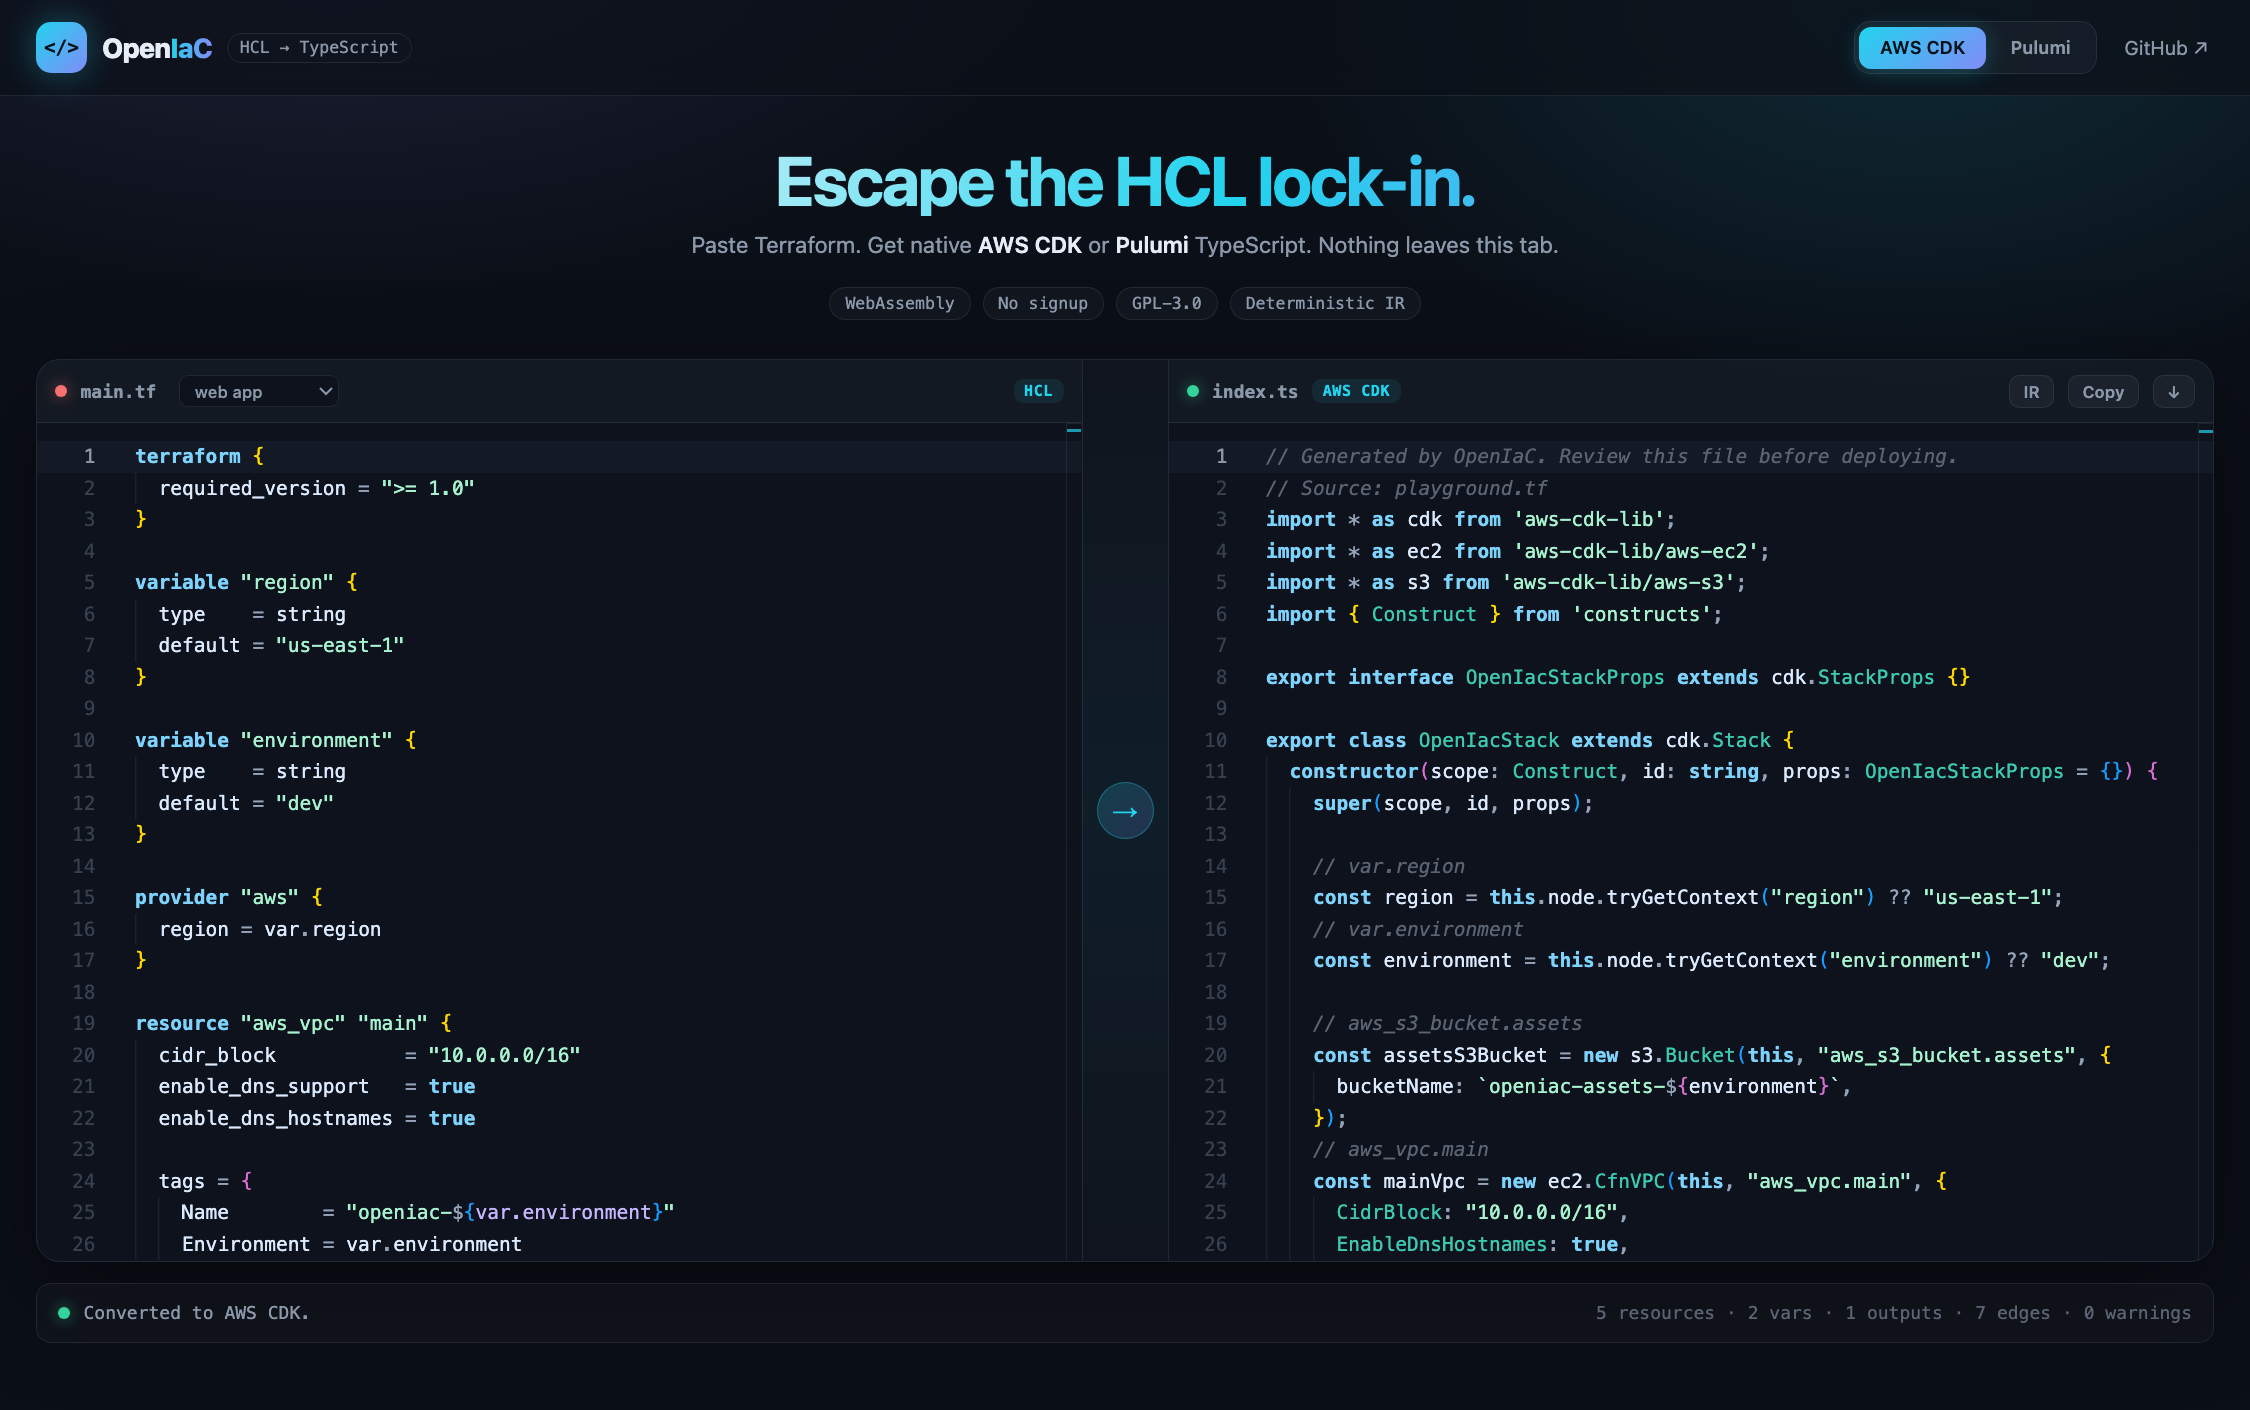
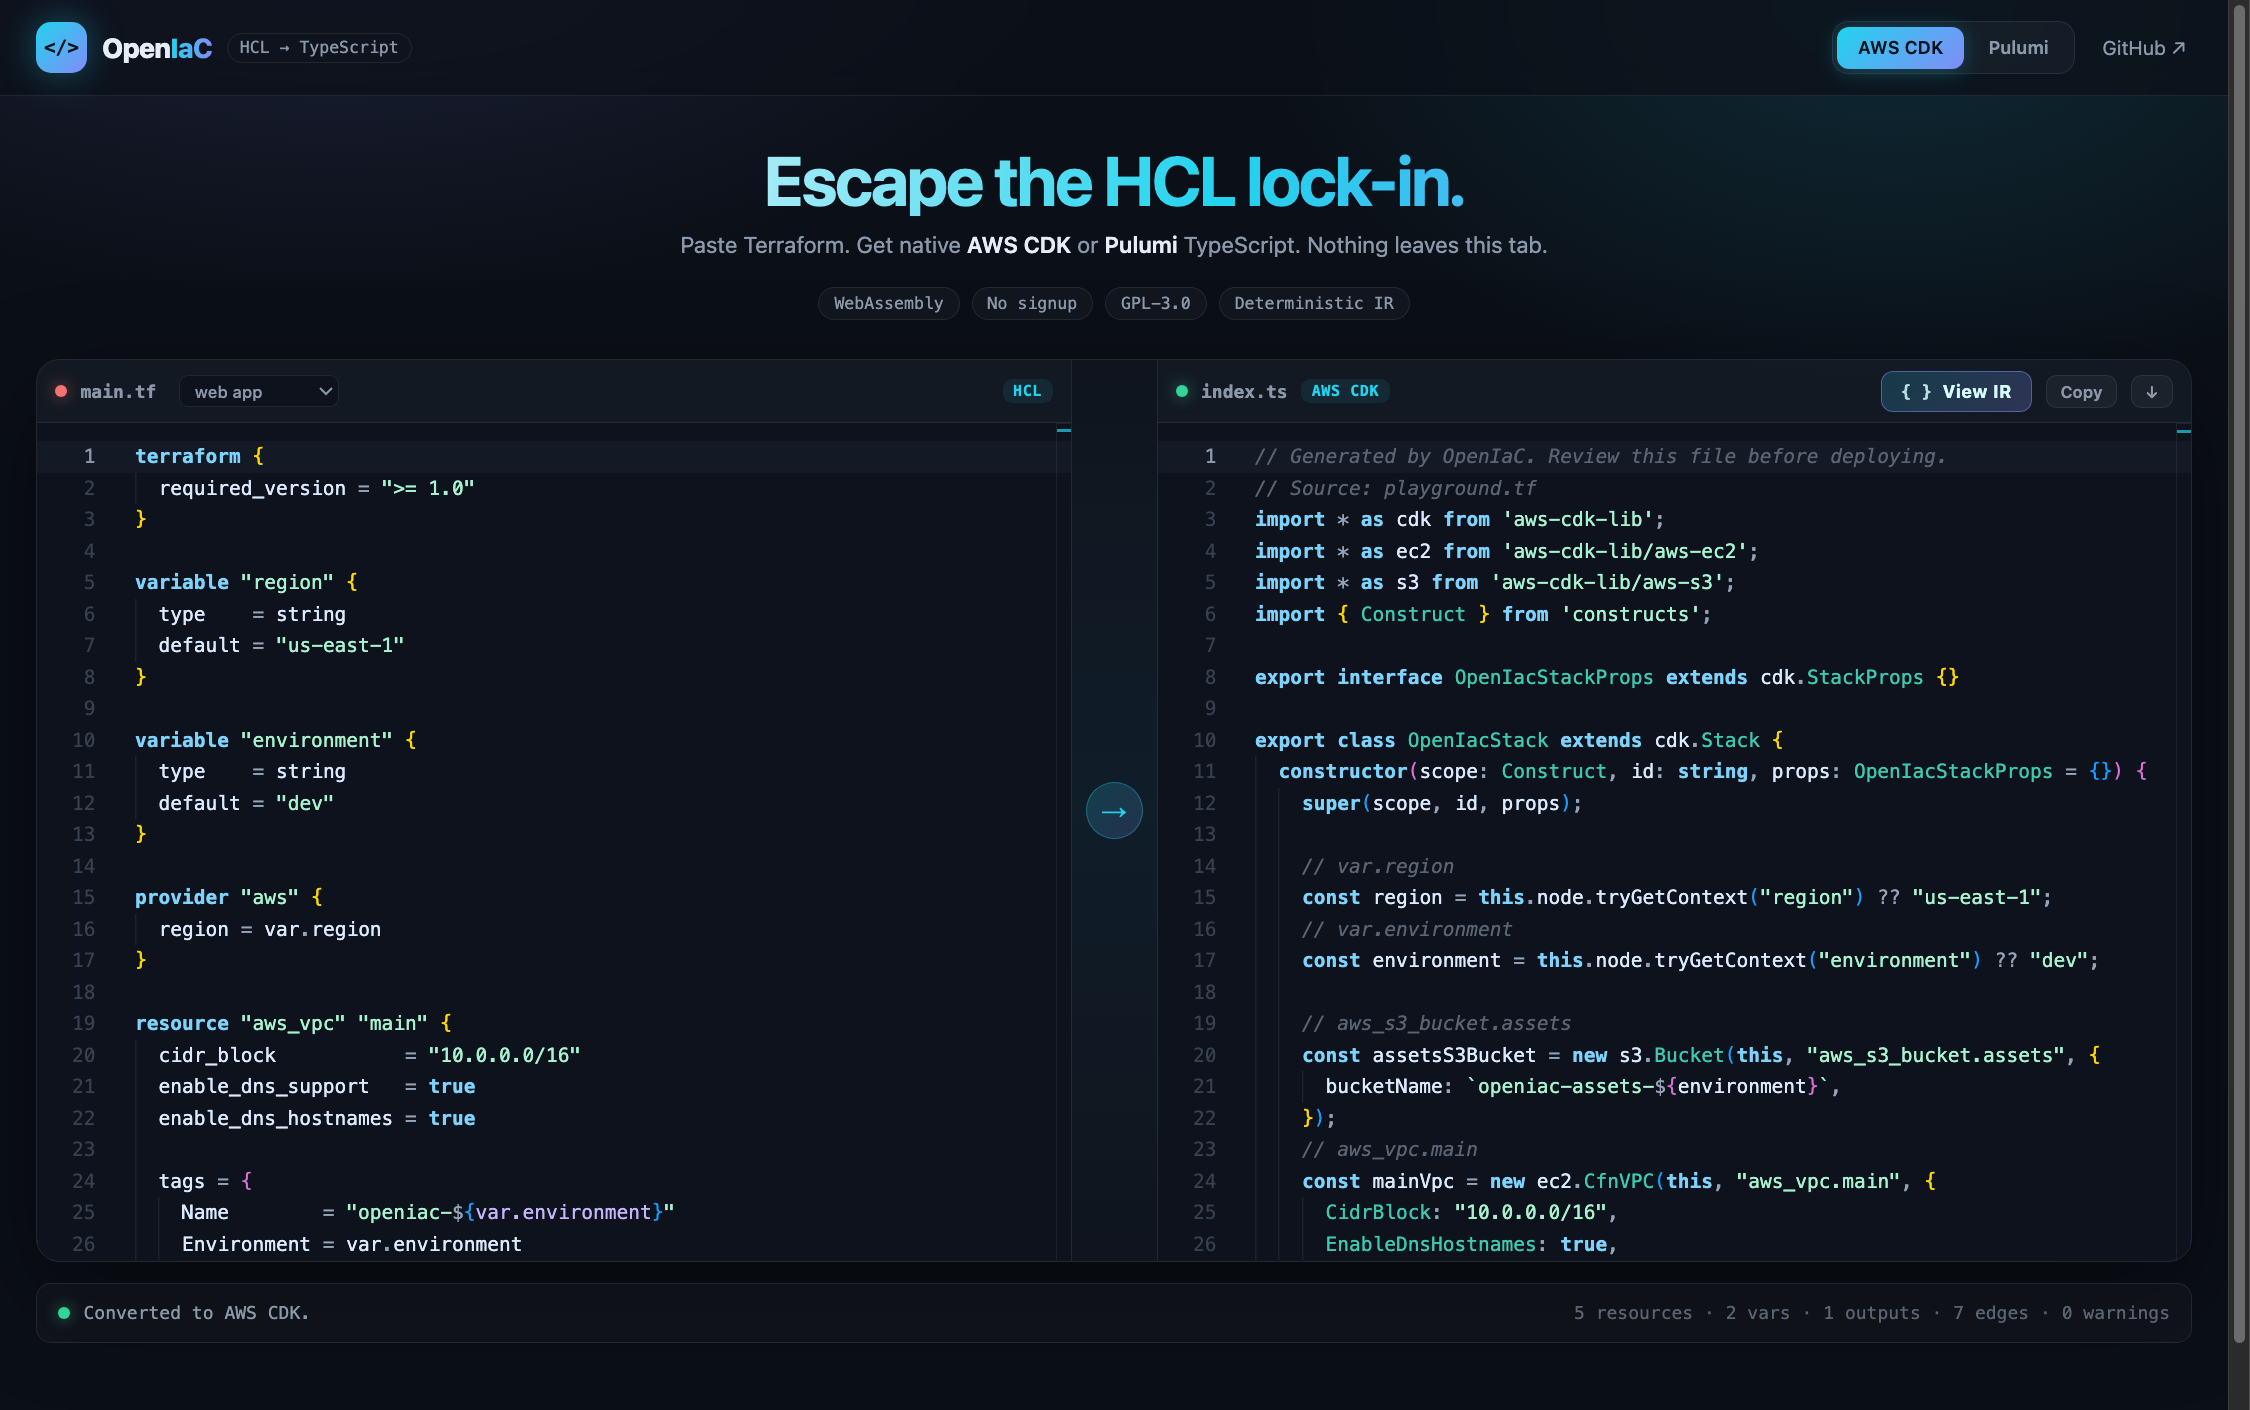
Make the IR toggle a prominent control in the playground
The IR view was reachable only through a muted icon button that read like
the Copy and download buttons next to it. Give it the accent treatment
instead: a tinted pill carrying the { } glyph and a View IR / Hide IR
label, a soft glow while the TypeScript view is showing, and a solid
gradient with dark text while the IR is active.

The label collapses to the glyph below 640px so the pane header stays on
one line, and the glow is dropped under prefers-reduced-motion. The
README screenshot is regenerated with the new control.

diff --git a/playground/styles.css b/playground/styles.css
@@ -279,10 +279,56 @@ a { color: inherit; }
   border-color: rgba(34, 211, 238, 0.45);
 }
 
-.icon-button.is-active {
-  color: var(--accent);
-  border-color: rgba(34, 211, 238, 0.55);
-  background: rgba(34, 211, 238, 0.14);
+/* The IR toggle is the one thing in this bar that changes what the pane
+   shows, so it gets the accent treatment instead of the muted icon-button. */
+.ir-button {
+  display: inline-flex;
+  align-items: center;
+  gap: 7px;
+  margin-left: 4px;
+  padding: 6px 13px;
+  border: 1px solid rgba(129, 140, 248, 0.5);
+  border-radius: 8px;
+  background: linear-gradient(135deg, rgba(34, 211, 238, 0.18), rgba(129, 140, 248, 0.24));
+  color: #d6fbff;
+  font: 700 12px var(--sans);
+  letter-spacing: 0.02em;
+  cursor: pointer;
+  animation: ir-glow 2.8s ease-in-out infinite;
+  transition: color 160ms ease, border-color 160ms ease, box-shadow 160ms ease, background 160ms ease;
+}
+
+.ir-button:hover {
+  color: #ecfeff;
+  border-color: rgba(34, 211, 238, 0.8);
+  box-shadow: 0 0 18px rgba(34, 211, 238, 0.3);
+}
+
+.ir-button:focus-visible {
+  outline: 2px solid var(--accent);
+  outline-offset: 2px;
+}
+
+.ir-button.is-active {
+  color: #06121a;
+  border-color: transparent;
+  background: linear-gradient(135deg, var(--accent), var(--accent-2));
+  box-shadow: 0 2px 18px rgba(34, 211, 238, 0.4);
+  animation: none;
+}
+
+.ir-button-icon {
+  font: 700 11px var(--mono);
+  opacity: 0.85;
+}
+
+@keyframes ir-glow {
+  0%, 100% { box-shadow: 0 0 0 0 rgba(34, 211, 238, 0.26); }
+  50% { box-shadow: 0 0 16px 2px rgba(34, 211, 238, 0.26); }
+}
+
+@media (prefers-reduced-motion: reduce) {
+  .ir-button { animation: none; }
 }
 
 .editor {
@@ -418,4 +464,11 @@ a { color: inherit; }
   }
   .hero { margin-top: 0; }
   .status-stats { display: none; }
+}
+
+@media (max-width: 640px) {
+  /* Keep the pane header on one line: the glyph still marks the toggle. */
+  #ir-button-label { display: none; }
+  .ir-button { padding: 5px 9px; }
+  .icon-button { padding: 4px 7px; }
 }

diff --git a/playground/index.html b/playground/index.html
@@ -63,7 +63,10 @@
           <span class="file-name" id="output-file">index.ts</span>
           <span id="target-badge" class="lang-badge">AWS CDK</span>
           <span class="spacer"></span>
-          <button id="ir-button" class="icon-button" type="button" aria-pressed="false" title="Inspect the universal IR (JSON)">IR</button>
+          <button id="ir-button" class="ir-button" type="button" aria-pressed="false" title="Show the universal IR (JSON) both emitters share">
+            <span class="ir-button-icon" aria-hidden="true">{ }</span>
+            <span id="ir-button-label">View IR</span>
+          </button>
           <button id="copy-button" class="icon-button" type="button" title="Copy the output">Copy</button>
           <button id="download-button" class="icon-button" type="button" title="Download the output">↓</button>
         </div>

diff --git a/playground/app.js b/playground/app.js
@@ -202,6 +202,8 @@
     const irButton = $('ir-button');
     irButton.classList.toggle('is-active', view === 'ir');
     irButton.setAttribute('aria-pressed', view === 'ir' ? 'true' : 'false');
+    irButton.title = view === 'ir' ? 'Back to the generated TypeScript' : 'Show the universal IR (JSON) both emitters share';
+    $('ir-button-label').textContent = view === 'ir' ? 'Hide IR' : 'View IR';
     $('output-file').textContent = view === 'ir' ? 'ir.json' : 'index.ts';
     $('target-badge').textContent = view === 'ir' ? 'IR' : targetLabel();
     updateOutputLanguage();

diff --git a/README.md b/README.md
@@ -173,8 +173,8 @@ python3 -m http.server -d playground 8080        # serve it
 ```
 
 Open `http://localhost:8080`, paste Terraform, get TypeScript. **No backend.**
-Press **IR** in the output pane to inspect the intermediate representation both
-emitters share; the button hides it again.
+Press **View IR** in the output pane to inspect the intermediate representation
+both emitters share; **Hide IR** returns to the generated TypeScript.
 
 ---
 
